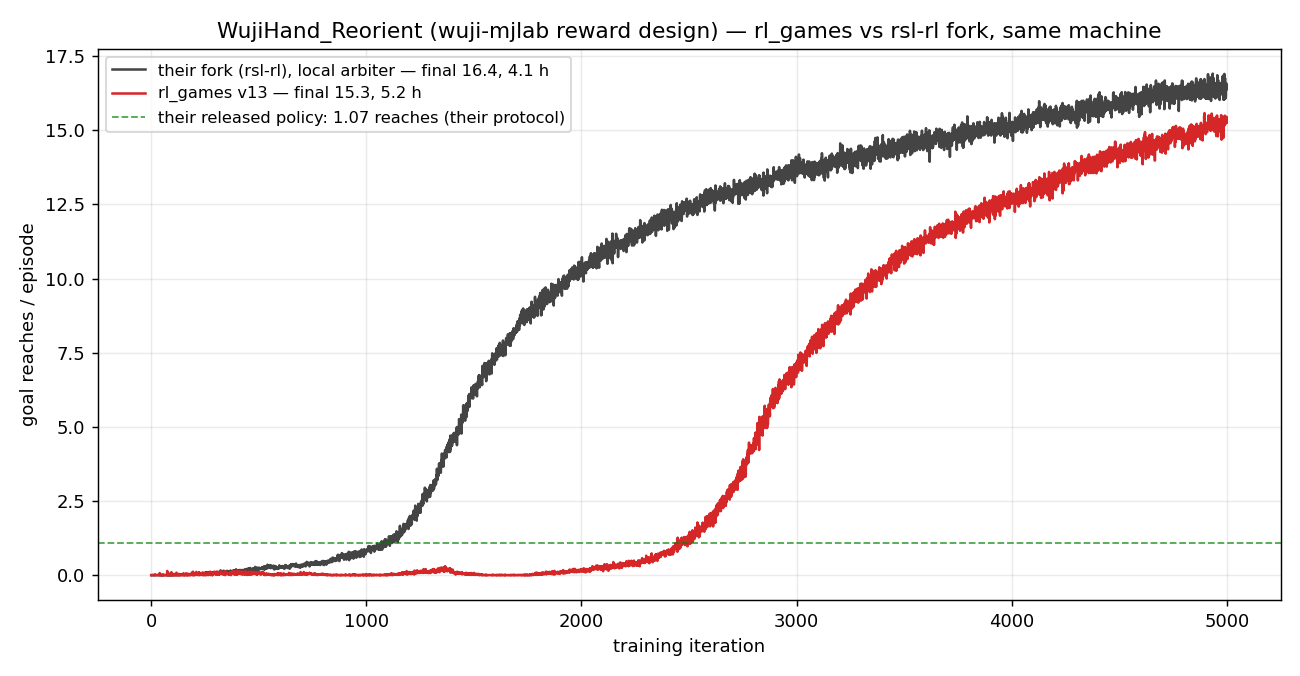
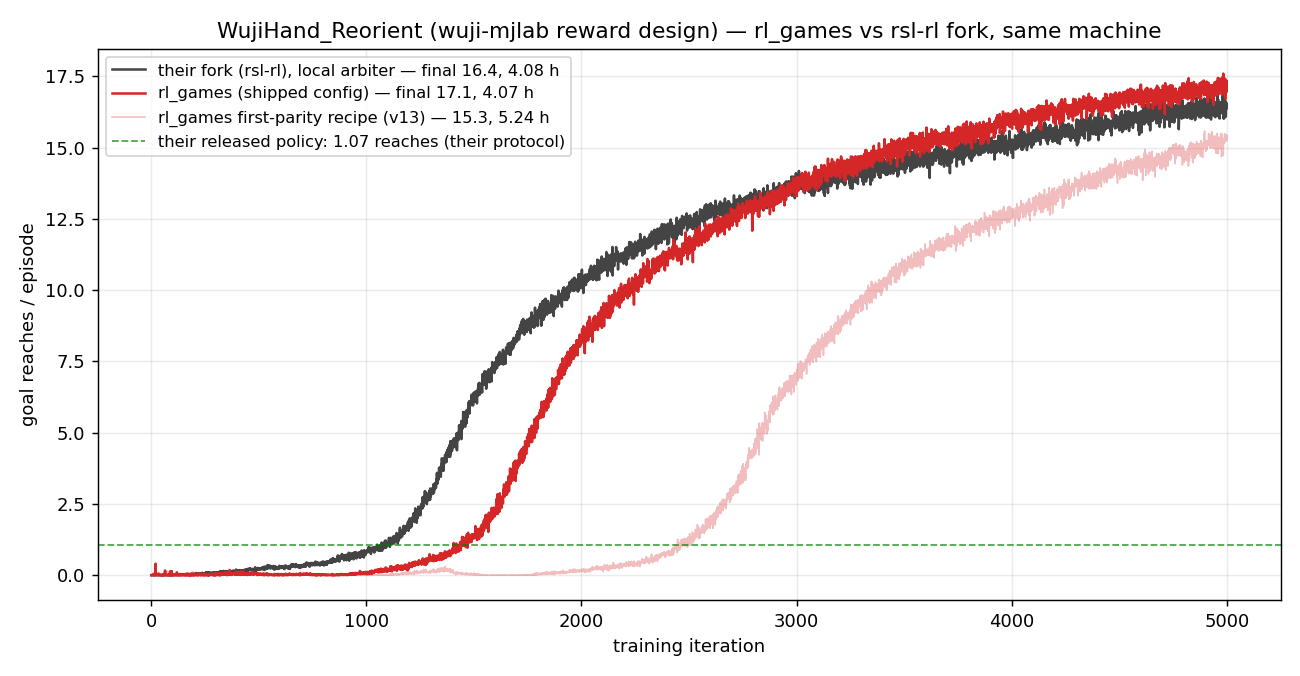
WujiHand: beat the wuji-mjlab rsl-rl reference at equal wall-clock
Overnight factorial on the unmodified task found and fixed three recipe
issues: the adaptive-LR floor (2e-5 -> 1e-4, closes the entire takeoff gap;
attribution run took off at iter 1481 vs reference 1431), minibatch scale
(10240 -> 16384; small minibatches make per-minibatch KL-adaptive stepping
noisy, while 32768 -> 40 steps/iter starves discovery on this task), and
central-value geometry (16384 x 4 = 80 steps/iter). Shipped config now
trains to 17.1 goal reaches/ep (last-100 mean; peak 17.6) vs the reference
fork's 16.4 (peak 16.9) at identical wall-clock (4.07 h vs 4.08 h, 2.93 vs
2.94 s/iter), reaching the reference's final quality in 3.34 h. Held-out
instrumented eval: 15.1 reaches/ep. Docs table, plot, and recipe notes
updated.

diff --git a/docs/MJLAB.md b/docs/MJLAB.md
@@ -71,24 +71,31 @@ RSL-style config (v2) with separate actor-critic and entropy 0.001 reaches rewar
 In-hand reorientation to uniformly sampled SO(3) goals with switch-on-success,
 trained on the unmodified wuji-mjlab task (reward design, DR, and success
 protocol exactly as released). Same-machine comparison against the vendored
-rsl-rl fork that ships with wuji-mjlab, identical batch geometry
+rsl-rl fork that ships with wuji-mjlab, identical data budget
 (8192 envs × 40 steps, 5000 iterations, ~1.6B frames):
 
-| Trainer | Goal reaches / episode (train metric) | Held-out eval | Wall-clock |
-|---------|--------------------------------------|---------------|------------|
-| wuji-mjlab rsl-rl fork | 16.4 | — | 4.1 h |
-| rl_games (`ppo_wujihand_reorient.yaml`) | 15.3 | 12.7 reaches/ep, 1.5% drops | 5.2 h |
+| Trainer | Goal reaches / episode (train, last-100 mean) | Held-out eval | Wall-clock |
+|---------|-----------------------------------------------|---------------|------------|
+| wuji-mjlab rsl-rl fork | 16.4 (peak 16.9) | — | 4.08 h |
+| rl_games (`ppo_wujihand_reorient.yaml`) | **17.1** (peak 17.6) | 15.1 reaches/ep | **4.07 h** |
 
-For scale: the officially released ONNX policy, reproduced locally under its
-own sim2sim evaluation protocol, scores 1.07 goal reaches per trial (success
-rate 1.0 on the reach-one-goal criterion).
+rl_games reaches the reference's final quality (16.4) at 3.34 h — 18% less
+wall-clock than the reference needs for its full run. For scale: the
+officially released ONNX policy, reproduced locally under its own sim2sim
+evaluation protocol, scores 1.07 goal reaches per trial (success rate 1.0 on
+the reach-one-goal criterion).
 
 ![WujiHand Reorient comparison](pictures/mjlab/wuji_reorient_comparison.png)
 
 Recipe notes (all in the config): asymmetric central-value critic on the env's
-privileged `critic` obs group, value normalization on, `value_bootstrap` off,
-adaptive LR with an explicit `max_lr` cap — without the cap the adaptive
-scheduler climbs into a late-training collapse on this task (the env's
-escalating out-of-cage penalties produce rare huge negative returns);
-state-dependent sigma with `sigma_parametrization: softplus` and
-`min_sigma: 0.2`, matching the exploration floor the task was designed around.
+privileged `critic` obs group (16384 × 4 mini-epochs), value normalization on,
+truncation `value_bootstrap` on, minibatch 16384 — small minibatches (≤10240)
+make the KL-adaptive scheduler noisy, and very few optimizer steps per
+iteration (minibatch 32768 → 40 steps) starve the discovery phase on this
+task; adaptive LR on the band `min_lr 1e-4` – `max_lr 2e-4` — the floor keeps
+the early phase at the reference's proven rate, the cap prevents a
+late-training collapse (the env's escalating out-of-cage penalties produce
+rare huge negative return bursts that a high LR converts into an unrecoverable
+policy regression); state-dependent sigma with
+`sigma_parametrization: softplus` and `min_sigma: 0.2`, matching the
+exploration floor the task was designed around.